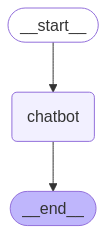
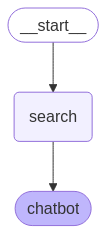
add some prompt template for search and question ask

diff --git a/chatbot.py b/chatbot.py
@@ -6,6 +6,8 @@ from langgraph.graph.message import add_messages
 from langchain_ollama import OllamaLLM
 from langchain_huggingface import ChatHuggingFace
 from langchain_community.tools.tavily_search import TavilySearchResults
+from langchain_core.messages.human import HumanMessage
+from langchain_core.messages.system import SystemMessage
 
 tool = TavilySearchResults(max_results=2)
 tools = [tool]
@@ -47,7 +49,29 @@ def filter_think_info(text):
 def chatbot(state: State):
     show_thinking = False
     find_think_end = False
-    input_text = " ".join([msg.content for msg in state["messages"]])
+    search_result = ""
+    question = ""
+    input_text = ""
+    
+    for msg in state["messages"]:
+        print(type(msg))
+        print(msg)
+        if isinstance(msg, SystemMessage):
+            search_result = msg.content
+        elif isinstance(msg, HumanMessage):
+            question = msg.content
+            
+    input_text = f"""
+        You are a helpful assistant answering questions based on the uploaded document.
+        Context:
+        {search_result}
+
+        Question:
+        {question}
+
+        Answer concisely and accurately in three sentences or less.
+    """
+    
     print( "\n\n\n", "\n=============input_text=============\n" , input_text, "\n\n\n")
     print("Assistant: ", end = '')
     
@@ -97,7 +121,7 @@ def run_search(state: State):
 
     # 确保只添加一次搜索结果
     search_content = "\n".join([result["content"] for result in results])
-    state["messages"] = [msg for msg in state["messages"] if not (isinstance(msg, dict) and msg.get("role") == "system")]
+    state["messages"] = [msg for msg in state["messages"] if not isinstance(msg, SystemMessage)]
     state["messages"].append({"role": "system", "content": f"Search results: {search_content}"})
     return state
 
